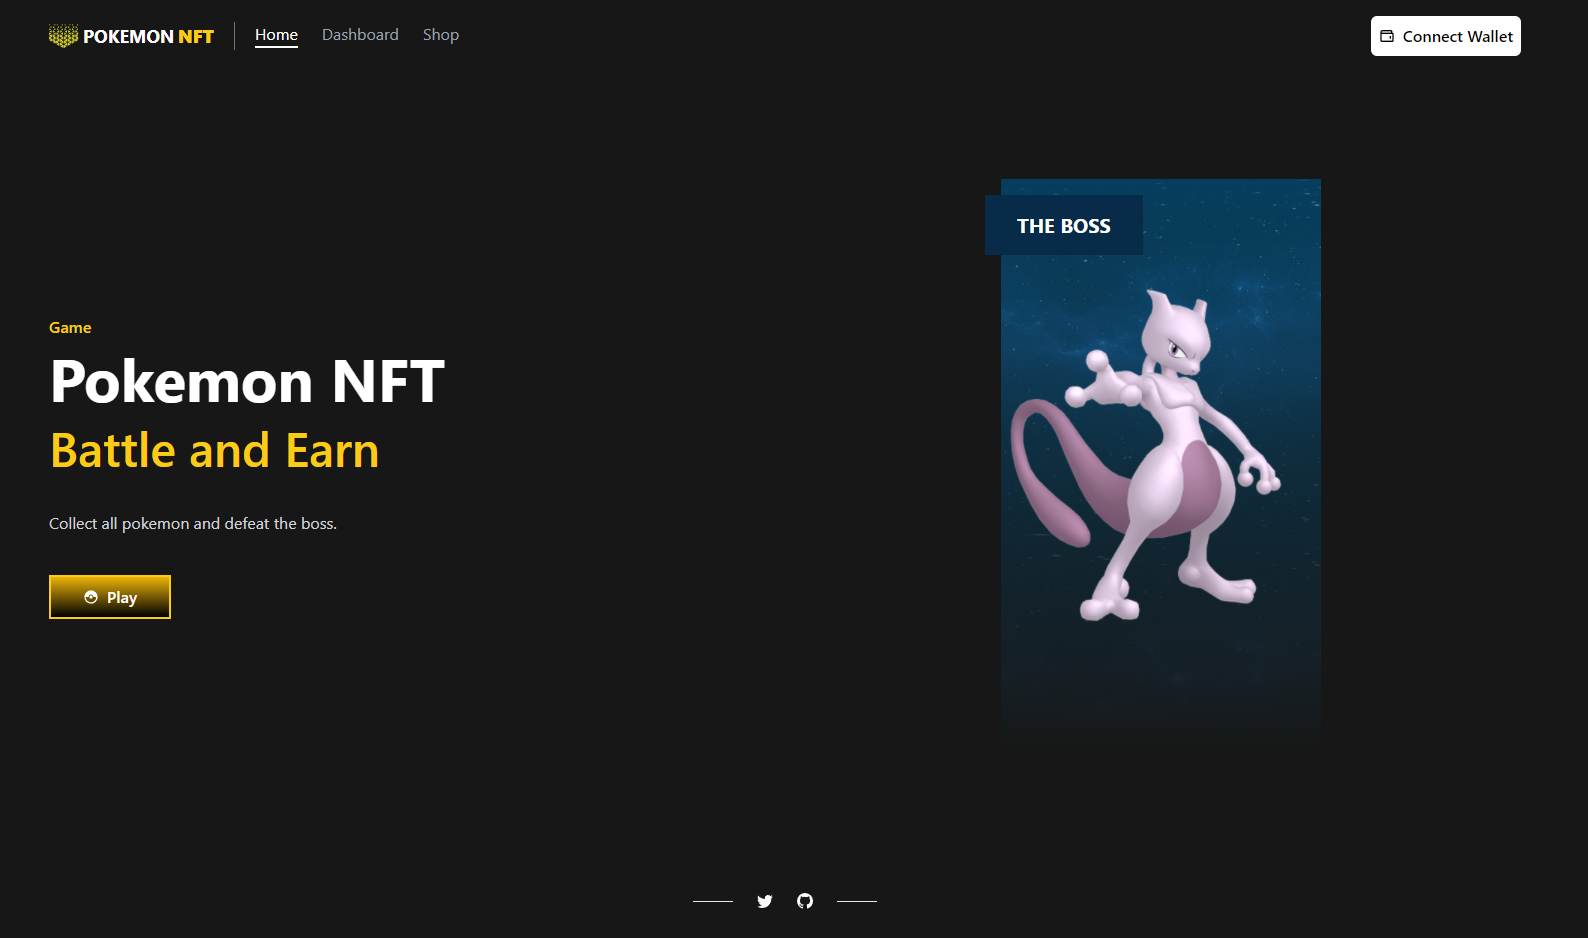
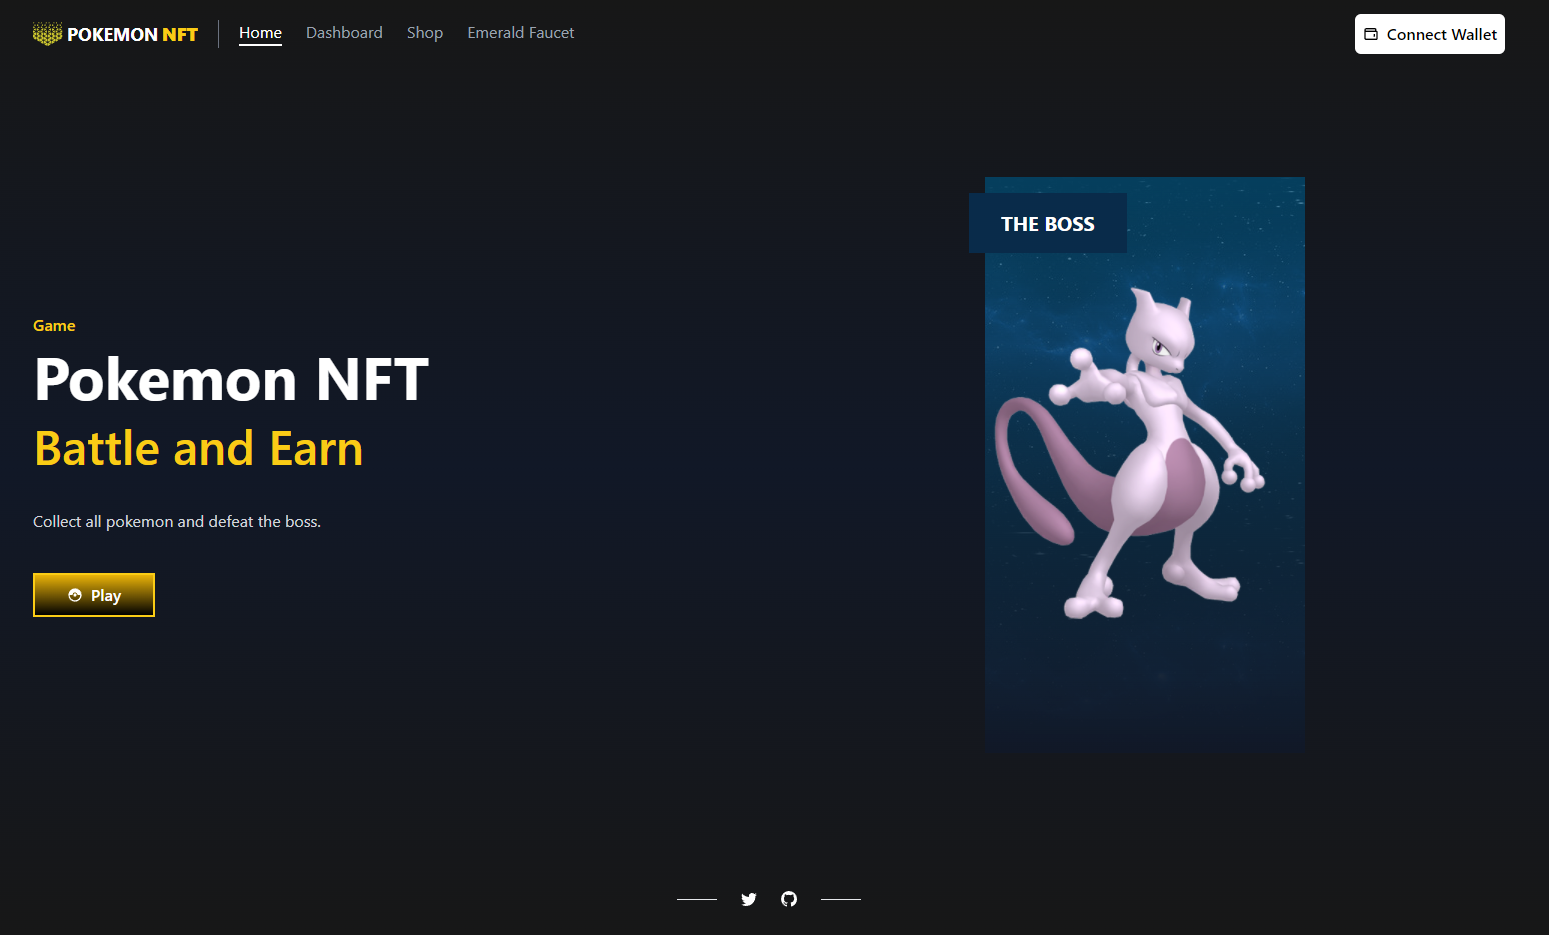
update readme

diff --git a/README.md b/README.md
@@ -29,6 +29,8 @@ Use [Emerald Paratime Tesnet](https://docs.oasis.dev/general/foundation/testnet/
 
 Web for add anything network -> https://chainlist.org/
 
+Emerald Faucet: https://faucet.testnet.oasis.dev/
+
 
 ## Author
 
